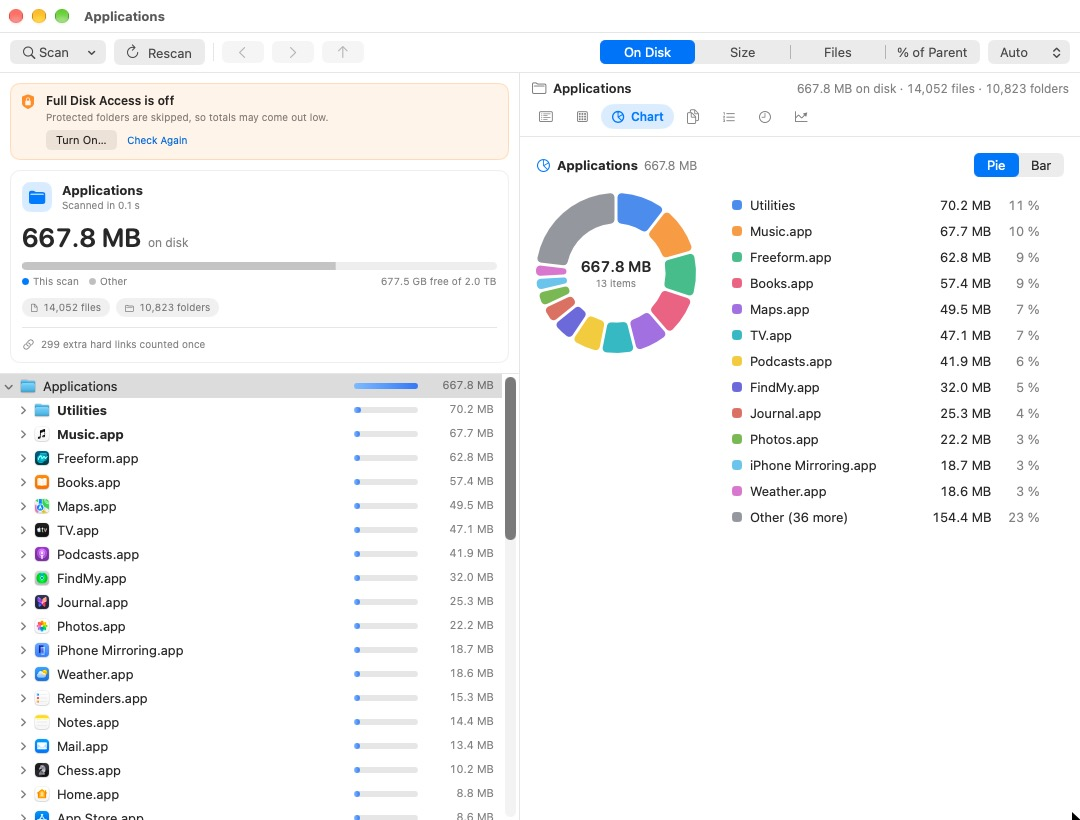
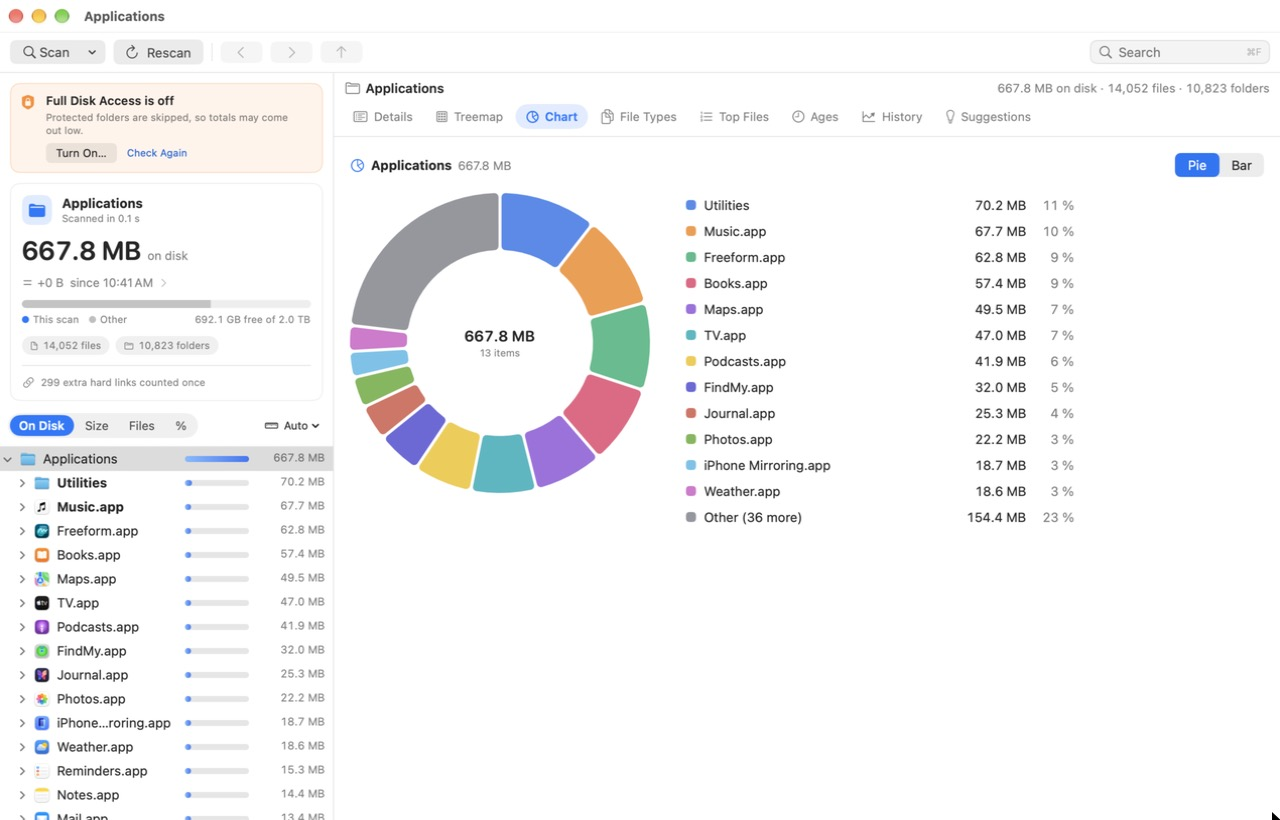
Open the sidebar at a quarter width and move the size switch above the tree
- The tree and the views now sit in an AppKit split view. On first
  launch the tree takes about a quarter of the window (at least 310
  points); after that the divider stays where you leave it, and
  resizing the window widens the views, not the tree.
- The On Disk / Size / Files / % switch and the unit menu move from the
  top bar to a slim row right above the folder tree, which is what they
  change most. A compact menu takes over in a very narrow sidebar.
- Dropping a folder anywhere on the window still scans it.
- README: describe the switch and the divider; refresh both screenshots.

diff --git a/DiskLens/ContentView.swift b/DiskLens/ContentView.swift
@@ -1,4 +1,5 @@
 import SwiftUI
+import AppKit
 
 enum DetailTab: String, CaseIterable, Identifiable {
     case details = "Details"
@@ -42,7 +43,8 @@ enum DetailTab: String, CaseIterable, Identifiable {
 /// The main window: the command bar on top, the folder tree on the left, the views on the right.
 ///
 /// The window deliberately has no SwiftUI toolbar and no NavigationSplitView (which always adds
-/// one): version 1.0 crashed in a toolbar layout loop. A plain split view has no toolbar to loop.
+/// one): version 1.0 crashed in a toolbar layout loop. The two panes sit in a plain AppKit split
+/// view instead (`MainSplitView`), which has no toolbar to loop.
 struct ContentView: View {
     @EnvironmentObject private var model: AppModel
     private var prefs = DisplayPrefs()
@@ -53,19 +55,20 @@ struct ContentView: View {
         VStack(spacing: 0) {
             CommandBar(model: model)
             Divider()
-            HSplitView {
-                sidebar(settings)
-                    .frame(minWidth: 270, idealWidth: 380, maxWidth: 760, maxHeight: .infinity)
-                detail(settings)
-                    .frame(minWidth: 560, maxWidth: .infinity, maxHeight: .infinity)
-            }
+            MainSplitView(
+                sidebar: sidebar(settings)
+                    .frame(maxWidth: .infinity, maxHeight: .infinity, alignment: .topLeading)
+                    .modifier(ScanDropTarget(model: model))
+                    .environmentObject(model),
+                detail: detail(settings)
+                    .frame(maxWidth: .infinity, maxHeight: .infinity)
+                    .modifier(ScanDropTarget(model: model))
+                    .environmentObject(model)
+            )
+            .frame(maxWidth: .infinity, maxHeight: .infinity)
         }
         .navigationTitle(model.result?.displayName ?? "DiskLens")
-        .dropDestination(for: URL.self) { urls, _ in
-            guard let url = urls.first, !model.isScanning else { return false }
-            model.scan(path: url.path)
-            return true
-        }
+        .modifier(ScanDropTarget(model: model))
         .alert("Couldn't scan", isPresented: $model.showingError) {
             Button("OK", role: .cancel) {}
         } message: {
@@ -100,6 +103,7 @@ struct ContentView: View {
                 .padding(10)
             }
             if scanned != nil {
+                SizeModeBar()
                 Divider()
                 TreeOutline(model: model, settings: settings)
             } else {
@@ -153,6 +157,107 @@ struct ContentView: View {
         } else {
             WelcomePanel(model: model)
         }
+    }
+}
+
+// MARK: - Split view
+
+/// Dropping a folder anywhere on the window scans it.
+struct ScanDropTarget: ViewModifier {
+    @ObservedObject var model: AppModel
+
+    func body(content: Content) -> some View {
+        content.dropDestination(for: URL.self) { urls, _ in
+            guard let url = urls.first, !model.isScanning else { return false }
+            model.scan(path: url.path)
+            return true
+        }
+    }
+}
+
+/// The sidebar and the views beside it, in an AppKit split view. On first launch the sidebar
+/// takes about a quarter of the window; after that the divider stays where the user leaves it
+/// (macOS saves it), and resizing the window widens or narrows the right side only.
+///
+/// The panes are hosted without size constraints from their SwiftUI content, so the split view
+/// alone decides their sizes and nothing can feed a measured size back into layout.
+struct MainSplitView<Sidebar: View, Detail: View>: NSViewControllerRepresentable {
+    let sidebar: Sidebar
+    let detail: Detail
+
+    func makeNSViewController(context: Context) -> MainSplitController<Sidebar, Detail> {
+        MainSplitController(sidebar: sidebar, detail: detail)
+    }
+
+    func updateNSViewController(_ controller: MainSplitController<Sidebar, Detail>, context: Context) {
+        controller.show(sidebar: sidebar, detail: detail)
+    }
+}
+
+final class MainSplitController<Sidebar: View, Detail: View>: NSSplitViewController {
+    /// The share of the window the sidebar gets until the user moves the divider, and the
+    /// narrowest it starts at (so its controls fit on small windows).
+    static var defaultSidebarShare: CGFloat { 0.26 }
+    static var defaultSidebarMinimum: CGFloat { 310 }
+    static var sidebarMinimum: CGFloat { 270 }
+    static var sidebarMaximum: CGFloat { 760 }
+    static var detailMinimum: CGFloat { 560 }
+    private static var autosaveName: String { "DiskLens.MainSplit" }
+
+    private let sidebarHost: NSHostingController<Sidebar>
+    private let detailHost: NSHostingController<Detail>
+    private var placedDivider = false
+
+    init(sidebar: Sidebar, detail: Detail) {
+        sidebarHost = NSHostingController(rootView: sidebar)
+        detailHost = NSHostingController(rootView: detail)
+        sidebarHost.sizingOptions = []
+        detailHost.sizingOptions = []
+        super.init(nibName: nil, bundle: nil)
+    }
+
+    required init?(coder: NSCoder) {
+        fatalError("MainSplitController is created in code")
+    }
+
+    override func viewDidLoad() {
+        super.viewDidLoad()
+        splitView.isVertical = true
+        splitView.dividerStyle = .thin
+
+        let sidebarItem = NSSplitViewItem(viewController: sidebarHost)
+        sidebarItem.minimumThickness = Self.sidebarMinimum
+        sidebarItem.maximumThickness = Self.sidebarMaximum
+        sidebarItem.canCollapse = false
+        // The higher priority keeps the sidebar's width when the window is resized.
+        sidebarItem.holdingPriority = NSLayoutConstraint.Priority(260)
+
+        let detailItem = NSSplitViewItem(viewController: detailHost)
+        detailItem.minimumThickness = Self.detailMinimum
+        detailItem.holdingPriority = NSLayoutConstraint.Priority(250)
+
+        addSplitViewItem(sidebarItem)
+        addSplitViewItem(detailItem)
+        splitView.autosaveName = Self.autosaveName
+    }
+
+    override func viewDidAppear() {
+        super.viewDidAppear()
+        guard !placedDivider else { return }
+        placedDivider = true
+        // Only the first time: after that macOS restores where the user left the divider.
+        let saved = UserDefaults.standard.object(forKey: "NSSplitView Subview Frames \(Self.autosaveName)") != nil
+        guard !saved else { return }
+        let width = splitView.bounds.width
+        guard width > 0 else { return }
+        let sidebarWidth = min(max((width * Self.defaultSidebarShare).rounded(), Self.defaultSidebarMinimum),
+                               max(Self.sidebarMinimum, width - Self.detailMinimum))
+        splitView.setPosition(sidebarWidth, ofDividerAt: 0)
+    }
+
+    func show(sidebar: Sidebar, detail: Detail) {
+        sidebarHost.rootView = sidebar
+        detailHost.rootView = detail
     }
 }
 

diff --git a/DiskLens/Navigation.swift b/DiskLens/Navigation.swift
@@ -1,12 +1,10 @@
 import SwiftUI
 
-/// The bar across the top of the window: scanning, Back / Forward / Up, how sizes are shown, and search.
+/// The bar across the top of the window: scanning, Back / Forward / Up, and search.
 /// It is ordinary window content rather than a SwiftUI toolbar: toolbar items that change size
 /// can send SwiftUI and AppKit into an endless layout loop, which is what crashed version 1.0.
 struct CommandBar: View {
     @ObservedObject var model: AppModel
-    @AppStorage(Prefs.sizeMode) private var mode: SizeMode = .allocated
-    @AppStorage(Prefs.unit) private var unit: SizeUnit = .auto
 
     var body: some View {
         HStack(spacing: 8) {
@@ -69,26 +67,6 @@ struct CommandBar: View {
 
             Spacer(minLength: 12)
 
-            Picker("Show", selection: $mode) {
-                ForEach(SizeMode.allCases) { option in
-                    Text(option.title).tag(option)
-                }
-            }
-            .pickerStyle(.segmented)
-            .labelsHidden()
-            .fixedSize()
-            .help("What the sizes and bars show")
-
-            Picker("Unit", selection: $unit) {
-                ForEach(SizeUnit.allCases) { option in
-                    Text(option.title).tag(option)
-                }
-            }
-            .pickerStyle(.menu)
-            .labelsHidden()
-            .fixedSize()
-            .help("Size unit")
-
             SearchButton(model: model, search: model.search)
         }
         .padding(.horizontal, 10)
@@ -107,6 +85,108 @@ struct CommandBar: View {
         }
         .disabled(!enabled)
         .help(help)
+    }
+}
+
+/// The row just above the folder tree: what the sizes and bars show (On Disk, Size, Files or % of
+/// the parent folder) and the unit. It sits next to the tree because the tree is what it changes
+/// most; the views on the right follow it too.
+struct SizeModeBar: View {
+    @AppStorage(Prefs.sizeMode) private var mode: SizeMode = .allocated
+    @AppStorage(Prefs.unit) private var unit: SizeUnit = .auto
+
+    var body: some View {
+        // The widest layout that fits the sidebar; the last one fits even the narrowest sidebar.
+        ViewThatFits(in: .horizontal) {
+            row(unitTitle: true)
+            row(unitTitle: false)
+            compactRow
+        }
+        .padding(.horizontal, 8)
+        .padding(.top, 2)
+        .padding(.bottom, 8)
+    }
+
+    /// Both choices as small menus, for a very narrow sidebar.
+    private var compactRow: some View {
+        HStack(spacing: 8) {
+            Picker("Show", selection: $mode) {
+                ForEach(SizeMode.allCases) { option in
+                    Text(option.title).tag(option)
+                }
+            }
+            .pickerStyle(.menu)
+            .fixedSize()
+            .help("Sizes and bars show: \(mode.help)")
+            Spacer(minLength: 0)
+            unitMenu(showTitle: false)
+        }
+        .controlSize(.small)
+    }
+
+    private func unitMenu(showTitle: Bool) -> some View {
+        Menu {
+            Picker("Unit", selection: $unit) {
+                ForEach(SizeUnit.allCases) { option in
+                    Text(option.title).tag(option)
+                }
+            }
+            .pickerStyle(.inline)
+            .labelsHidden()
+        } label: {
+            if showTitle {
+                Label(unit.title, systemImage: "ruler")
+            } else {
+                Label(unit.title, systemImage: "ruler").labelStyle(.iconOnly)
+            }
+        }
+        .menuStyle(.borderlessButton)
+        .fixedSize()
+        .help("Size unit: \(unit.title)")
+    }
+
+    private func row(unitTitle: Bool) -> some View {
+        HStack(spacing: 8) {
+            HStack(spacing: 2) {
+                ForEach(SizeMode.allCases) { option in
+                    ModeSegment(option: option, selected: mode == option) { mode = option }
+                }
+            }
+            .padding(2)
+            .background(Capsule().fill(Color.primary.opacity(0.07)))
+            .fixedSize()
+
+            Spacer(minLength: 0)
+
+            unitMenu(showTitle: unitTitle)
+        }
+        .controlSize(.small)
+    }
+}
+
+/// One choice in the size-mode switch: a pill that fills with the accent colour when chosen.
+private struct ModeSegment: View {
+    let option: SizeMode
+    let selected: Bool
+    let action: @MainActor () -> Void
+    @StateObject private var hover = HoverState()
+
+    var body: some View {
+        Button(action: action) {
+            Text(option.shortTitle)
+                .font(.system(size: 12, weight: selected ? .semibold : .regular))
+                .foregroundStyle(selected ? Color.white : Color.primary.opacity(0.8))
+                .padding(.horizontal, 9)
+                .padding(.vertical, 3)
+                .background(Capsule().fill(selected ? Color.accentColor
+                                                    : Color.primary.opacity(hover.isHovering ? 0.07 : 0)))
+                .contentShape(Capsule())
+        }
+        .buttonStyle(.plain)
+        .onHover { hover.isHovering = $0 }
+        .help("\(option.title): \(option.help)")
+        .accessibilityLabel(option.title)
+        .accessibilityAddTraits(selected ? .isSelected : [])
     }
 }
 

diff --git a/DiskLens/Settings.swift b/DiskLens/Settings.swift
@@ -16,6 +16,16 @@ enum SizeMode: String, CaseIterable, Identifiable {
         }
     }
 
+    /// For the narrow switch above the folder tree.
+    var shortTitle: String {
+        switch self {
+        case .allocated: return "On Disk"
+        case .size: return "Size"
+        case .files: return "Files"
+        case .percent: return "%"
+        }
+    }
+
     var help: String {
         switch self {
         case .allocated: return "Space actually used on disk (like Finder's “on disk”)"

diff --git a/README.md b/README.md
@@ -64,8 +64,10 @@ ad-hoc signature, so use `build.sh` for the copy you keep in Applications.
 - **Summary card**: the scan's total, how much of the disk it takes, and file and folder counts.
 - **Folder tree** with a size bar on every row (scaled to the whole scan, or to the parent folder), bold for big
   folders, a `[Files]` entry for each folder's loose files, and an option to hide small items.
-- **Size modes**: On Disk (space really used), Size, file count, or % of parent; units auto, B, KB, MB, GB, TB;
-  decimal (like Finder) or binary units.
+- **Size modes**: a switch right above the tree shows On Disk (space really used), Size, file count, or % of
+  parent, with a unit menu beside it (auto, B, KB, MB, GB, TB); decimal (like Finder) or binary units in Settings.
+- **Layout**: the folder tree takes about a quarter of the window and the views the rest. Drag the divider to
+  change it; DiskLens remembers where you leave it, and resizing the window widens the views, not the tree.
 - **Details**: a sortable list with columns you can hide (right-click the header): On Disk, % of Parent, Size,
   Files, Folders, Modified, Kind.
 - **Treemap**: each top-level folder has its own colour and a labelled title strip; deeper folders get lighter
@@ -105,7 +107,9 @@ ad-hoc signature, so use `build.sh` for the copy you keep in Applications.
 | Find a folder or file by name | ⌘F (or click Search at the top right), type part of the name, then ↑↓ and Return to go there |
 | Switch views | ⌘1 Details, ⌘2 Treemap, ⌘3 Chart, ⌘4 File Types, ⌘5 Top Files, ⌘6 Ages, ⌘7 History, ⌘8 Suggestions |
 | Preview a file | Select it in Details and press Space |
-| Change units, bar colours, treemap detail | DiskLens ▸ Settings (⌘,) |
+| Show sizes, file counts or % of parent | The On Disk / Size / Files / % switch above the folder tree, with the unit menu beside it |
+| Make the tree wider or narrower | Drag the divider between the tree and the views |
+| Change bar colours, unit system, treemap detail | DiskLens ▸ Settings (⌘,) |
 
 ## How sizes are counted
 
